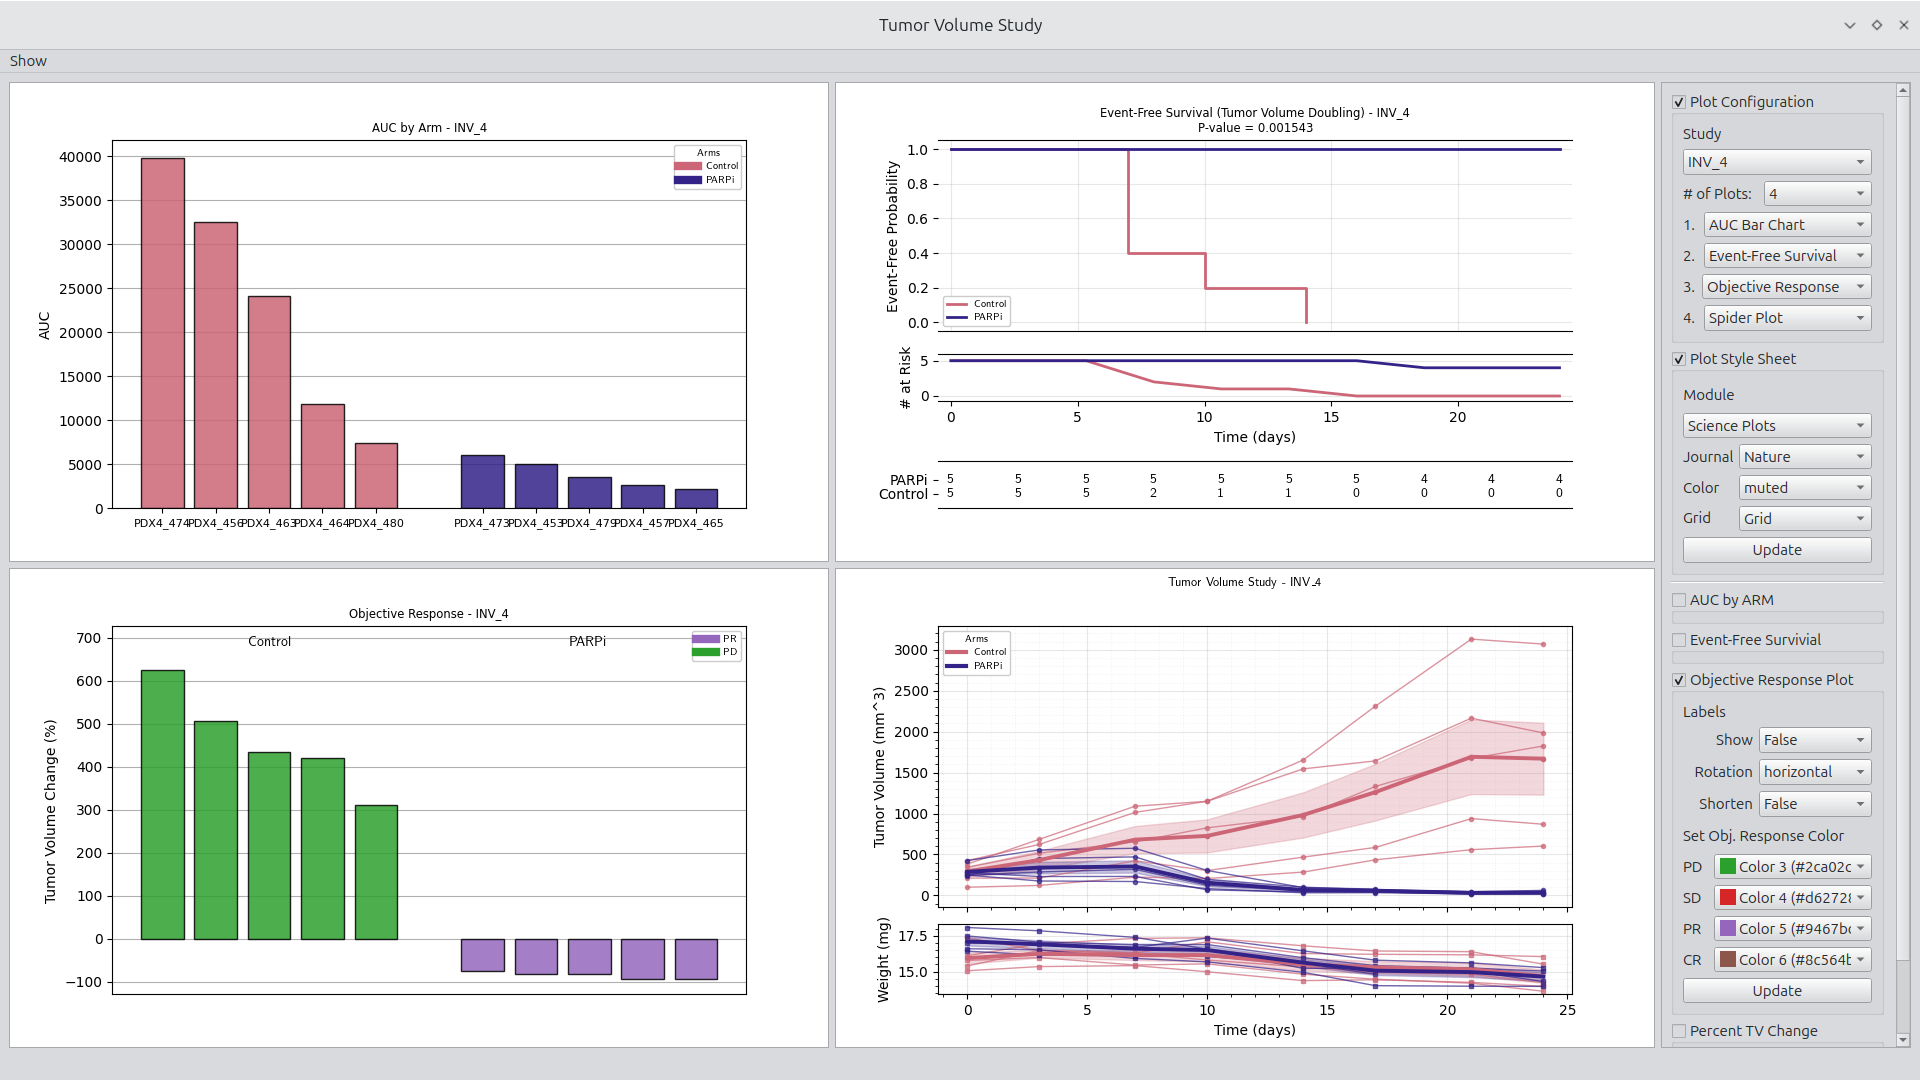
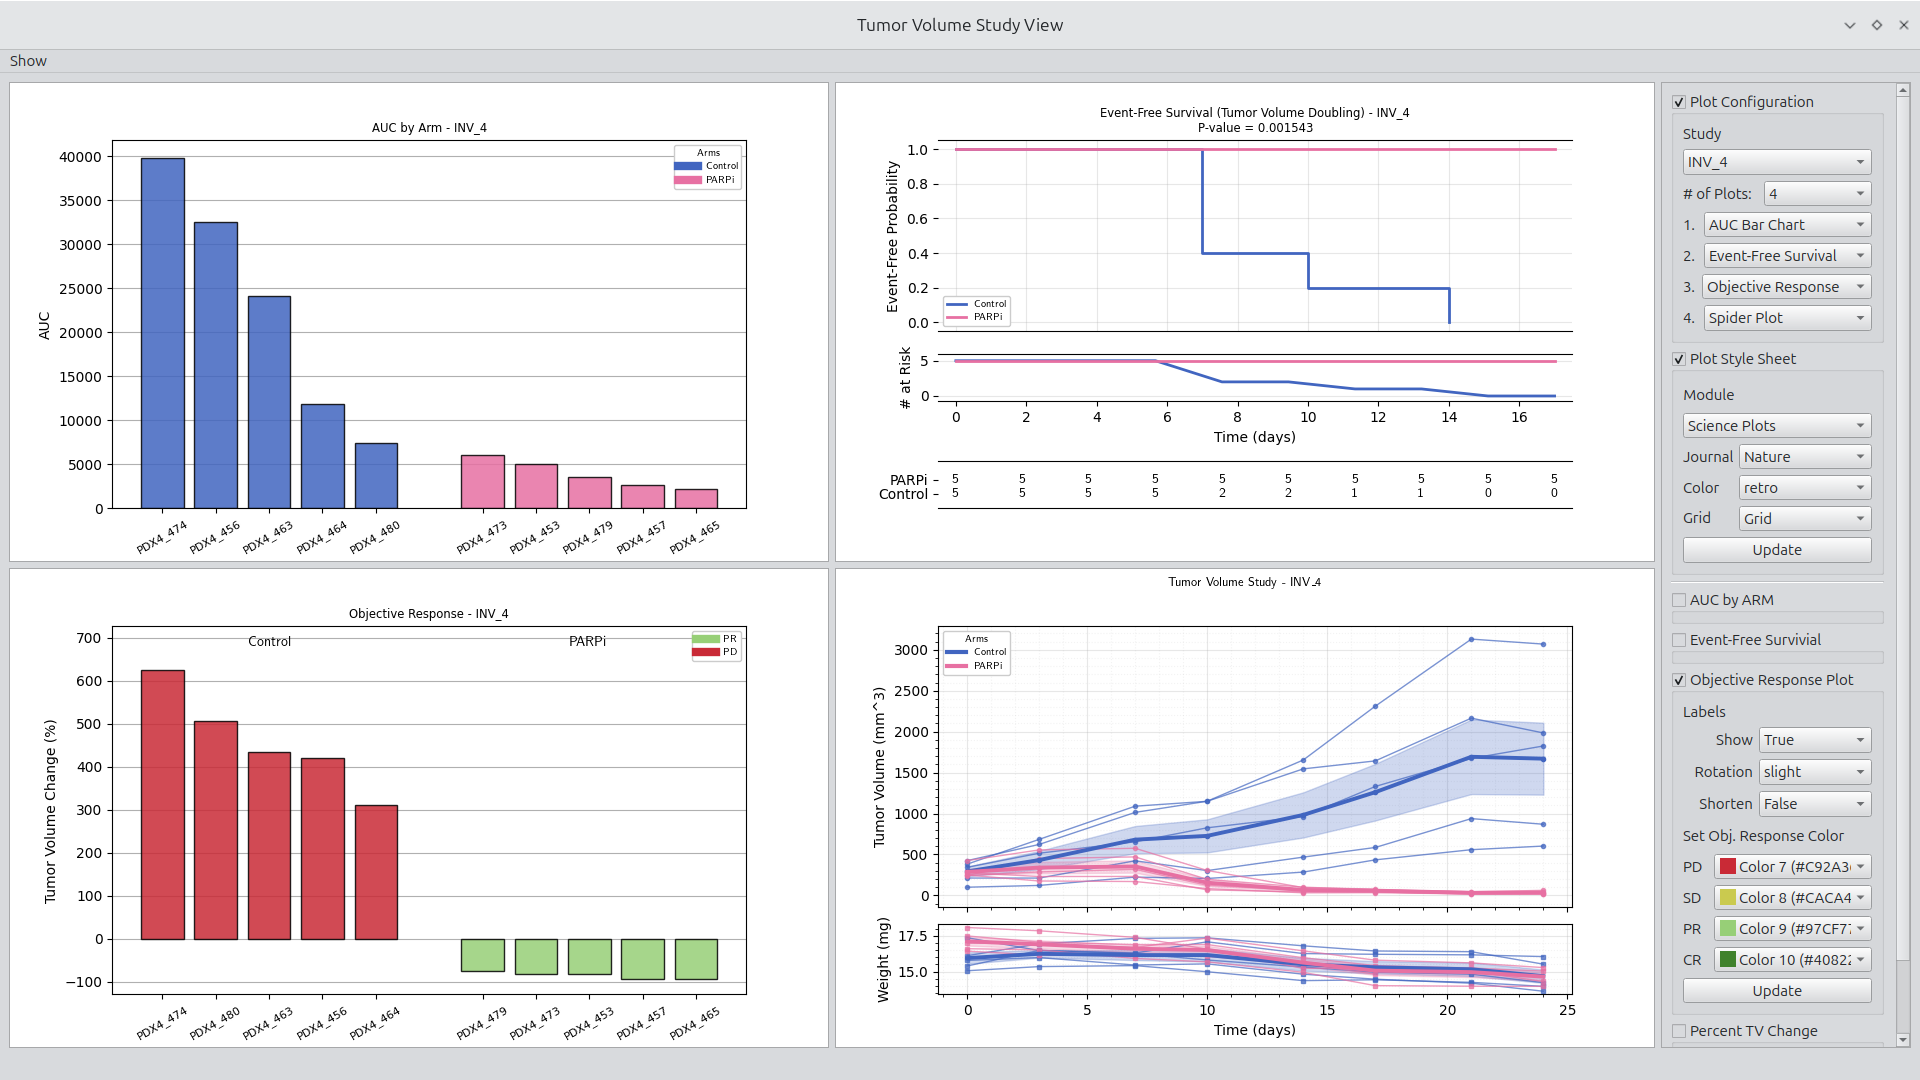
Updated readme and added figures to demonstrate saving a figure.

diff --git a/src/TumorVolumeStudyViewClass.py b/src/TumorVolumeStudyViewClass.py
@@ -80,7 +80,7 @@ class TumorVolumeStudyWindow(QMainWindow):
         # 1. CORE SETUP - UI and data
         self.ui = Ui_MainWindow()
         self.ui.setupUi(self)
-        self.setWindowTitle("Tumor Volume Study")
+        self.setWindowTitle("Tumor Volume Study View")
         self.tv_data_obj = tv_data_obj
         self.studies = tv_data_obj.unique_studies
 
@@ -448,6 +448,7 @@ class TumorVolumeStudyWindow(QMainWindow):
         # Get semantics relevant objective response colors
         obj_res_color_dict = self.get_response_colors_from_colormap(available_style_colors)
         obj_res_color_list = [ obj_res_color_dict[obj_res] for obj_res in ["PD", "SD", "PR", "CR"]]
+        print("obj_res_color_list = {obj_res_color_list}")
         available_style_colors.extend(obj_res_color_list)
         self.available_style_colors = available_style_colors
 
@@ -757,7 +758,21 @@ class TumorVolumeStudyWindow(QMainWindow):
         combo_boxes = [self.ui.comboBox_objective_plot_pd, self.ui.comboBox_objective_plot_sd,
                        self.ui.comboBox_objective_plot_pr, self.ui.comboBox_objective_plot_cr]
         available_style_colors = self.get_style_colors()
+
+        # Get semantics relevant objective response colors
+        obj_res_color_dict = self.get_response_colors_from_colormap(available_style_colors)
+        obj_res_color_list = [obj_res_color_dict[obj_res] for obj_res in ["PD", "SD", "PR", "CR"]]
+        print("obj_res_color_list = {obj_res_color_list}")
+        available_style_colors.extend(obj_res_color_list)
+        self.available_style_colors = available_style_colors
+
         self._populate_color_comboboxes(combo_boxes, available_style_colors, color_shift=2)
+
+        # Set Index
+        idx_max = len(available_style_colors) - 4
+        for idx, cbox in enumerate(combo_boxes):
+            cbox.setCurrentIndex(idx_max)
+            idx_max += 1
 
         # Update Study View
         self.update_study_view()

diff --git a/src/TumorVolumeExperimentViewClass.py b/src/TumorVolumeExperimentViewClass.py
@@ -81,7 +81,7 @@ class TumorVolumeExperimentWindow(QMainWindow):
         # 1. CORE SETUP - UI and data
         self.ui = Ui_MainWindow()
         self.ui.setupUi(self)
-        self.setWindowTitle("Tumor Volume Experiment")
+        self.setWindowTitle("Tumor Volume Experiment View")
         self.tv_data_obj = tv_data_obj
         self.experiments = tv_data_obj.unique_experiments
 

diff --git a/README.md b/README.md
@@ -5,74 +5,71 @@
 [![License](https://img.shields.io/badge/License-AGPL--3.0-green.svg)]()
 [![GUI](https://img.shields.io/badge/Interface-PySide6-lightgrey.svg)]()
 
-**Tumor Volumetrics** is a Python application for exploring, summarizing, and visualizing preclinical tumor volume time-series data. It is designed to make it **fast and consistent to generate standard tumor volume figures** across experiments and studies.
+**Tumor Volumetrics** is a Python application for exploring, summarizing, and visualizing preclinical tumor volume time-series data. It is designed to make it easy to **generate standard tumor volume figures** to support interactive review of results and generation of publication-quality figures.
 
-The primary focus of the project is now the **Tumor Experiment Viewer and the Tumor Volume Study Viewer**, which provide interactive, configurable access to common oncology plots such as spider plots, group averages, Kaplan–Meier curves, and objective response visualizations.
+<p align="center"> <img src="src/media/tumor_volume_study_treatment_effective_example.png" alt="Study viewer interface"/><br> <b>Figure 1.</b> Study viewer with effective treatment example shown. Viewer configuration and plotting style options are shown on the upper right. Options available for the objective response plot are shown on the lower right.</p>
 
-This repository is under active development. The user-facing viewers are the most mature components. Internal class structures are evolving and are treated as implementation details. 
+Launching a viewer such as the volume study viewer requires only one click, resulting in the display of common tumor volume plots. The viewer can be configured between 1 and 4 figures. In addition, each figure includes a set of parameters made available through a group box. Configuration and parameter options are made available through the Show menu on the upper left corner. See **Figure 1** for an example of a typical study view display.
 
---
+---
 
 ## What This Tool Is For
 
-The primary goals of the interface is to standardize and excellerate the generation of publication quality figures directly from the interface. Right clicking on a figure launches a diaglog box that allows figure configutration, copying the figure, and saving the figure. figure widgth, length, and dpi are easily set. 
-
 Tumor Volumetrics is built for scientists and analysts who:
+
 - Work with longitudinal tumor volume data in CSV form
-- Need to rapidly explore experiments and studies
+- Need to rapidly explore common experiment and study plots
+- Generate publication-quality plots
 
-The goal is to remove friction from common tasks like:
-- Loading, inspecting, and plotting tumor volume datasets
-- Automatically applying styles across plots which sets up the infastructure for defining custom plot configurations.
+### Figure Generation
 
+Users can select a Matplotlib or Science Plot style to update the displayed figures. Objective Response Plots include a feature of smart generation of colors complementary to the selected style. 
 
---
+Right-clicking any figure launches a dialog box for configuring plots including plot width, plot height, and figure DPI. The figure can then either be saved to disk or copied to the clipboard. See **Figure 2** for an example.
+
+<p align="center">
+  <img src="src/media/spider_plot_save_figure_example.png" width="300" alt="Spider plot parameters">
+  <br><br>
+  <img src="src/media/spider_plot_save_figure_example_figure.png" width="300" alt="Generated square spider plot">
+  <br>
+  <b>Figure 2.</b> Example of setting plot parameters (top) and generating a square plot (bottom).
+</p>
+
+---
 
 ## Main User Interfaces
-The primary goal of the interfaces is to make common tumor figures quickly aviallbe allowing the user to move quickly to reviewinhg data. Currently, the interface supports experiment and study centrics views of the data.
 
-<p align="center"> <img src="src/media/tumor_volume_study_treatment_effective_example.png" /><br> <b>Figure 1.</b> Study viewer with effective treatment example shown. Viewer configuration and plottingg style options are shown on the upper right. Options available for the objective response plot  </p>
+TumorVolumetrics includes interfaces for loading data files, visualizing experiment data, and visualizing study data. Interfaces are minimal by design, allowing the user to focus on data review.
 
-
-## File Loading and Grouping
+### File Loading and Grouping
 
 The file-loading panel supports basic access, inspection, and export.
 
 Key actions:
-- **Open**
+- **Open**  
   Select and load a tumor volume CSV following standard conventions.
-- **Show**
+- **Show**  
   Display the entire CSV in a table widget. Sorting, copying, and basic inspection are supported. Additional validation tools are planned.
-- **Save**
-  Export the dataset as XML following the provided schema, which defines Contributors and Experiments as root elements.
+- **Experiment Viewer**  
+  Clicking on the ellipses next to the experiment list launches the experiment viewer.
+- **Study Viewer**  
+  Clicking on the ellipses next to the study list launches the study viewer.
+- **Lists**  
+  Contributor, disease, arms, and tumor volume curve lists are populated upon loading.
 
-The XML format is intentionally extensible. It supports additional metadata such as units, mouse strain, or tumor-specific details for downstream analysis.
+<p align="center"> <img src="src/media/tumor_volumetrics_main_interface.png" width="200" alt="Main interface"/><br> <b>Figure 3.</b> Main interface for file access and navigation. </p>
 
-<p align="center"> <img src="src/media/tumor_volumetrics_main_interface.png" /><br> <b>Figure 5.</b> Main interface for file access and navigation. </p>
+### Show
 
-## Grouping and Navigation
+Clicking on the show pushbutton launches a CSV viewer with the selected data file contents shown.
 
-The grouping panel allows quick navigation using combo boxes for:
-- Contributor
-- Disease
-- Experiment
-- Study
--  Arm
-- Individual time series
-
-Selecting an item displays the corresponding rows from the underlying CSV. This provides a fast way to confirm data structure and content before plotting.
-
-<p align="center"> <img src="src/media/tumor_voumetrics_file_screen.png" /><br> <b>Figure 6.</b> File selection and inspection interface. </p>
-
-## Main User Interfaces
-The primary goal of the interfaces is to make common tumor figures quickly aviallbe allowing the user to move quickly to reviewinhg data. Currently, the interface supports experiment and study centrics views of the data.
+<p align="center"> <img src="src/media/tumor_voumetrics_file_screen.png" alt="File viewer"/><br> <b>Figure 4.</b> File selection and inspection interface. </p>
 
 ### Tumor Volume Experiment Viewer
 
 The Experiment Viewer is optimized for cross-study and cross-arm exploration within an experiment. It allows you to quickly configure and generate standard tumor volume plots with minimal setup.
 
-<p align="center"> <img src="src/media/tumor_volume_experiment_view.png" /><br> <b>Figure 1.</b> Tumor Volume Experiment Viewer. </p> 
-<p align="center"> <img src="src/media/tumor_volume_experiment_view_wiht_options.png" /><br> <b>Figure 2.</b> Experiment Viewer with configuration options shown. </p>
+<p align="center"> <img src="src/media/tumor_volume_experiment_view.png" alt="Experiment viewer"/><br> <b>Figure 5.</b> Tumor Volume Experiment Viewer. </p> 
 
 Key capabilities:
 - Select experiment, study, and arm combinations
@@ -80,14 +77,11 @@ Key capabilities:
 - Adjust plotting options interactively
 - Rapidly iterate on figure configuration without code changes
 
-This viewer is intended for experiment-level review and comparison.
-
 ### Tumor Volume Study Viewer
 
 The Study Viewer focuses on **deep inspection of a single study**. It supports arm-level and subject-level exploration and is optimized for understanding response patterns and variability.
 
-<p align="center"> <img src="src/media/tumor_volume_study_viewer.png" /><br> <b>Figure 3.</b> Tumor Volume Study Viewer. </p> 
-<p align="center"> <img src="src/media/tumor_volume_study_viewer_with_options.png" /><br> <b>Figure 4.</b> Study Viewer with option settings shown. </p>
+<p align="center"> <img src="src/media/tumor_volume_study_viewer.png" alt="Study viewer"/><br> <b>Figure 6.</b> Tumor Volume Study Viewer. </p> 
 
 Key capabilities:
 - Explore arms and individual time series
@@ -95,51 +89,35 @@ Key capabilities:
 - Configure display and grouping options interactively
 - Support common review patterns used in study evaluation
 
-This viewer is intended for ** study-level analysis and interpretation **.
-
-
+---
 
 ## Design Philosophy
 
 Tumor Volumetrics is built around a few core ideas:
 
-- **User first, architecture second**
+- **User first, architecture second**  
   The viewers and workflows drive the design. Internal class structure is flexible and evolving.
-- **Standard plots should be easy**
+- **Standard plots should be easy**  
   Common oncology figures should not require custom scripts every time.
-- **Interactive over batch by default**
+- **Interactive over batch by default**  
   The GUI is the primary interface. Programmatic access is supported but not the main focus.
-- **Extensible, not rigid**
+- **Extensible, not rigid**  
   New plot types and lab-specific conventions should be easy to add.
 
-## Internal Architecture (Background)
-- Under the hood, the application uses a set of classes for:
-- Tumor volume data loading and validation
-- Experiment-level grouping
-- Study-level organization
-- Individual time series handling
-
-These are designed to support command-line, interactive, and GUI-driven use. They are not currently treated as a stable public API and may change as the viewers continue to mature.
-
-If you are interested in the class structure, see the [Tumor Volume Class Read Me](src/media/TumorVolumeClassReadMe.md). 
-
-
-## Features in Progress
-- Enhanced CSV validation and QC tooling
-- Richer XML metadata support
+---
 
 ## Roadmap
 
 The long-term goal is a comprehensive PySide6 application that supports:
 
-Data loading and QC
+- Extended XML data format for including metadata with tumor volume data
+- Extension points for advanced or lab-specific methods
 - Standard preclinical oncology analyses
-- Rapid generation of publication-quality figures
-- Simple extension points for advanced or lab-specific methods
+- Support for user-defined plot configuration
 
-The emphasis will remain on **practical workflows used during study review, team discussions, and manuscript preparation**.
+---
 
 ## License
 
-This project is licensed under the GNU Affero General Public License v3.0.
+This project is licensed under the GNU Affero General Public License v3.0.  
 See the LICENSE.md file for details.
